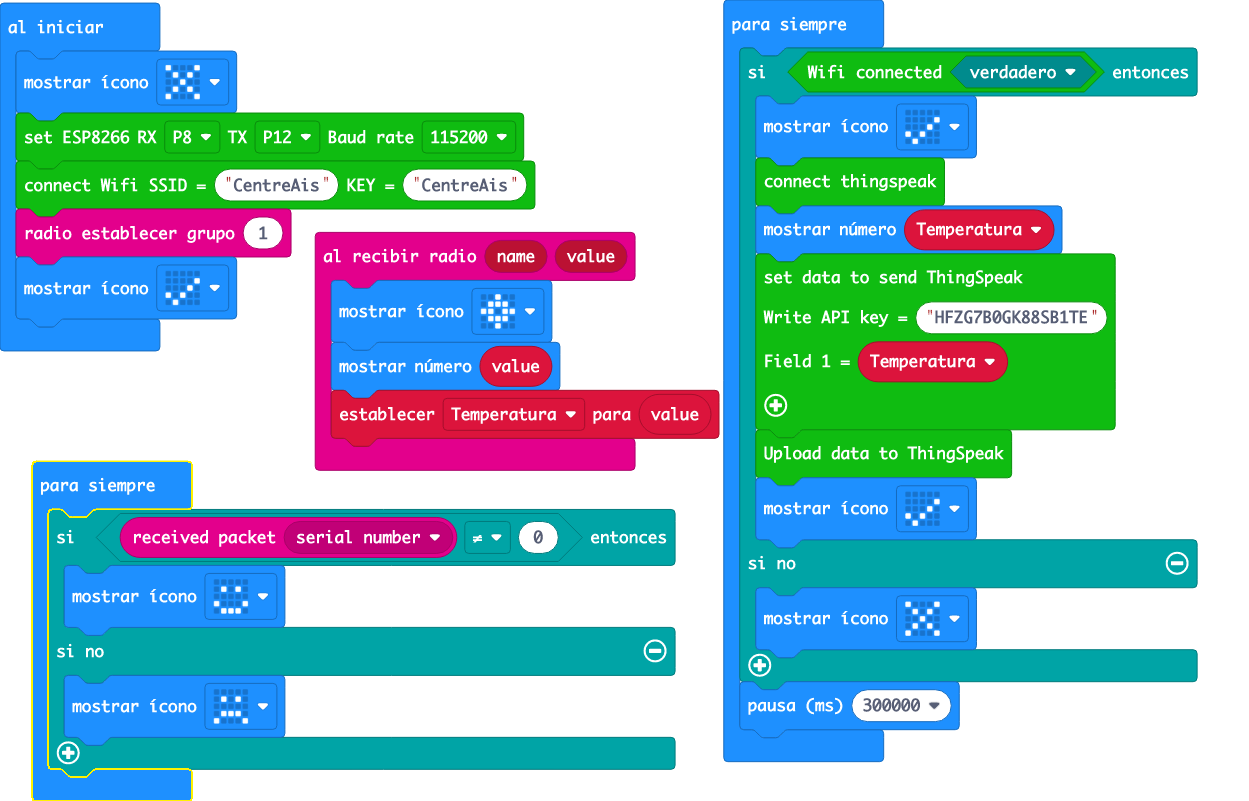
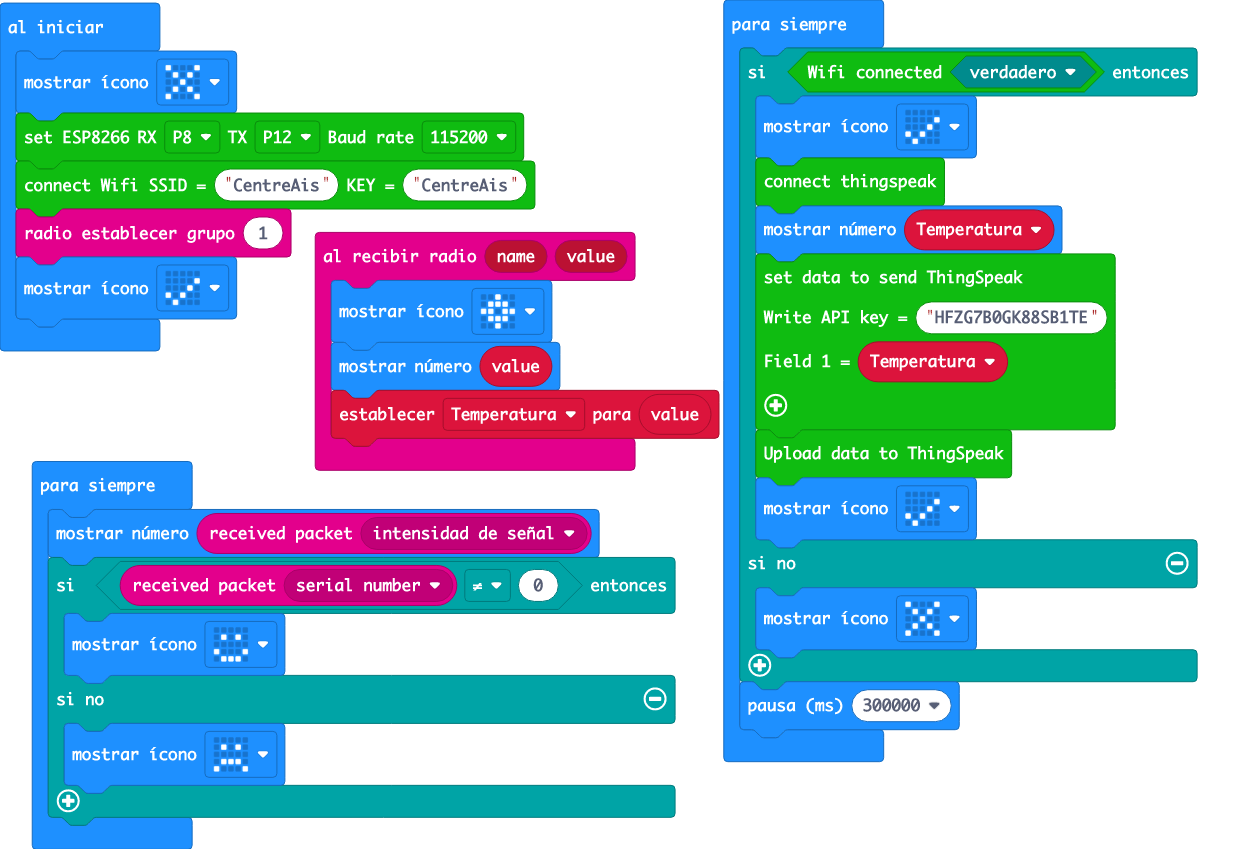
Update main.blocks, main.ts

diff --git a/main.ts b/main.ts
@@ -26,6 +26,7 @@ basic.forever(function () {
     basic.pause(300000)
 })
 basic.forever(function () {
+    basic.showNumber(radio.receivedPacket(RadioPacketProperty.SignalStrength))
     if (radio.receivedPacket(RadioPacketProperty.SerialNumber) != 0) {
         basic.showIcon(IconNames.Happy)
     } else {
